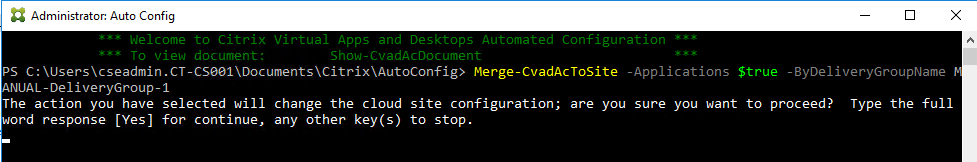
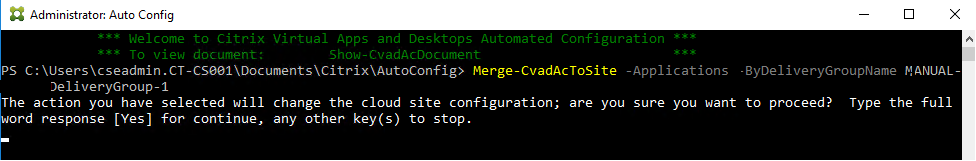
image changes and text included
image changes to remove $true value, and new text included

diff --git a/en-us/tech-zone/learn/poc-guides/citrix-automated-configuration.md b/en-us/tech-zone/learn/poc-guides/citrix-automated-configuration.md
@@ -15,7 +15,7 @@ Administrators can easily test and explore the **Citrix Virtual Apps and Desktop
 
 ### What is the Automated Configuration tool for Citrix Virtual Apps and Desktops?
 
-This tool is designed to help automate the migration of **CVAD** configuration (policies, applications, catalogs, and others) from one or more On-Premises site(s) to the **Citrix Virtual Apps and Desktop service** (CVADS) hosted on Citrix Cloud. It can also be used to migrate information between **different Cloud regions** or **tenants**.
+This tool is designed to help automate the migration of **CVAD** configuration (policies, applications, catalogs, admin roles, scopes and others) from one or more On-Premises site(s) to the **Citrix Virtual Apps and Desktop service** (CVADS) hosted on Citrix Cloud. It can also be used to migrate information between **different Cloud regions** or **tenants**.
 
 The migration can be performed in stages by running the tool multiple times, allowing administrators to easily achieve the desired configuration state.
 
@@ -30,6 +30,21 @@ Citrix wants to help ease this process by providing a tool that addresses use ca
 Citrix has leveraged industry standard configuration as code to provide a mechanism to help automate migration processes. This tool discovers and exports one or more on-premises sites as **a collection of configuration files**, which administrators can optionally edit, and then import these files' configuration into CVADS.
 
 This code is not limited to migrations, it is the future for creating configuration for Citrix sites, and as such, applicable for **many different use cases**. Disaster recovery, Development/Testing/Staging to Production site synchronization, Geographic (GEO) moves, and several other scenarios are supported. For administrators using public cloud providers, this can help create a combination of objects automatically (parallel to Microsoft Azure ARM templates and AWS CloudFormation).
+
+The tool also allows administrators to merge multiple on-premises sites into a single site, while avoiding name collisions. Administrators can control whether the On-Premises or Cloud controls resources, and also place files in a secure network file share that requires authentication.
+
+### Latest additions and enhancements
+
+Version 2 includes the following enhancements:
+
+*  Site Merging: Merge multiple On-Premises sites into a single site while avoiding name collisions.
+*  Site Activation: Control whether the On-Premises or Cloud controls resources.
+*  New Migration inclusions: Admin Roles and Scopes can now be migrated.
+*  New Filters: Filter by Machine Name in Machine Catalogs and Delivery Groups.
+*  Security: New SecurityFileFolder parameter pointing to the CvadAcSecurity.yml file allows placing the file in a secure network file share which requires authentication.
+*  New support cmdlet: New-CvadAcZipInfoForSupport allows zipping all log files for transfer to Citrix for support.
+*  Support for supressing console logging: Quiet parameter can be included now to suppress console logging.
+*  Component selection parameters improvements: best-practice Switch Parameter method eliminates the need to add a $true after the component name.
 
 ## Pre-requisites
 
@@ -75,7 +90,7 @@ These steps must be run in your DDC or the domain-joined machine where you want 
 Using an ```export``` PowerShell command, you can export your existing On-Premises configuration and obtain the necessary *.yml* files. These files are used to import your desired configuration into **Citrix Cloud**.
 
 1.  After running the **MSI** installer on the previous step, you get an **Auto Config** shortcut automatically created on the Desktop. Right-click this shortcut and click **Run as Administrator.**
-2.  Run the ```Export-CvadAcToFile``` command. This command exports policies, manually provisioned catalogs, and delivery groups. It also exports applications, application folders, icons, zone mappings, tags, and other items. **Note:** For **MCS** and **PVS** machine catalogs and delivery groups, refer to the steps on [Requisites for Importing Site Configuration using different Provisioning Methods section](#requisites-for-importing-site-configuration-using-different-provisioning-methods) in this guide.
+2.  Run the ```Export-CvadAcToFile``` command. This command exports policies, manually provisioned catalogs, and delivery groups. It also exports applications, application folders, icons, zone mappings, tags, admin roles and scopes, and other items. **Note:** For **MCS** and **PVS** machine catalogs and delivery groups, refer to the steps on [Requisites for Importing Site Configuration using different Provisioning Methods section](#requisites-for-importing-site-configuration-using-different-provisioning-methods) in this guide.
 [![Exporting Config](/en-us/tech-zone/learn/media/poc-guides_citrix-automated-configuration_export-config-002-1.png)](/en-us/tech-zone/learn/media/poc-guides_citrix-automated-configuration_export-config-002-1.png)
 
 3.  Once the tool finishes running, the **Overall status** shows as **True** and the export process is completed (the output lines shown match the following illustration). **Note:** If there are any errors, diagnostic files are created in the action-specific subfolders ```(Export, Import, Merge, Restore, Sync, Backup, Compare)```, which can be found under ```%HOMEPATH%\Documents\Citrix\AutoConfig```. Refer to the [Troubleshooting Tips section](#troubleshooting-tips) if you encounter any errors.
@@ -185,7 +200,7 @@ Follow these steps to prepare your environment, before proceeding to import the 
 2.  Click the **Groups** node to confirm the groups the app in question belongs to:
 [![Provisioning Method MCS](/en-us/tech-zone/learn/media/poc-guides_citrix-automated-configuration_other-prov-mcs-process-002.png)](/en-us/tech-zone/learn/media/poc-guides_citrix-automated-configuration_other-prov-mcs-process-002.png)
 
-3.  Back on the **PowerShell console**, run the **Merge** command and use the **byDeliveryGroupName** flag, which filters the **Applications** by **Delivery Group** name. Complete Syntax example: ```Merge-CvadAcToSite –Applications $true –ByDeliveryGroupName <DG_name>```
+3.  Back on the **PowerShell console**, run the **Merge** command and use the **byDeliveryGroupName** flag, which filters the **Applications** by **Delivery Group** name. Complete Syntax example: ```Merge-CvadAcToSite –Applications –ByDeliveryGroupName <DG_name>```
 [![Provisioning Method MCS](/en-us/tech-zone/learn/media/poc-guides_citrix-automated-configuration_other-prov-mcs-process-003.png)](/en-us/tech-zone/learn/media/poc-guides_citrix-automated-configuration_other-prov-mcs-process-003.png)
 
 4.  Press **Return (Enter)** on your keyboard to run the command and type ```yes``` to continue.
@@ -212,7 +227,7 @@ Follow these steps to prepare your environment, before proceeding to import the 
 
 Once you’ve performed the previous actions, if you need to import policies associated with your **MCS Machine Catalogs** and your **Delivery groups**, follow these instructions:
 
-1.  Run the ```Merge-CvadAcToSite -GroupPolicies $true``` command in the **PowerShell console** and type ```yes``` to continue, as shown in the following screenshot, and then press **Return (Enter)** on your keyboard:
+1.  Run the ```Merge-CvadAcToSite -GroupPolicies``` command in the **PowerShell console** and type ```yes``` to continue, as shown in the following screenshot, and then press **Return (Enter)** on your keyboard:
 [![Policies for MCS](/en-us/tech-zone/learn/media/poc-guides_citrix-automated-configuration_other-prov-mcs-policies-001.png)](/en-us/tech-zone/learn/media/poc-guides_citrix-automated-configuration_other-prov-mcs-policies-001.png)
 
 2.  Successful execution shows a similar output (```Added``` values). The following screenshot also shows the result of a line for which there were no changes ```(No Change)```:
@@ -325,6 +340,8 @@ If everything looks as expected, your CVADS migration is complete.
 *  The **master history log** is located in ```%HOMEPATH%\Documents\Citrix\AutoConfig```, in the file named ```History.Log```.*  All operation log files are placed in a **backup folder**.
 *  All log file names begin with ```CitrixLog```, then show the ```auto-config``` operation and the **date** and **timestamp** of the cmdlet execution.
 *  Logs **do not** auto-delete.
+*  Console logging can be suppressed by using the -quiet parameter
+*  New support cmdlet to zip all log files for transfer to Citrix for support. To do this, backup the cloud’s current state by running the Backup-CvadAcToFile command, collect all log and yml files into a single zip (no customer security information is included) by running New-CvadAcZipInfoForSupport . Forward the zip file at the following location %HOMEPATH%\Documents\Citrix\AutoConfig\CvadAcSupport_yyyy_mm_dd_hh_mm_ss.zipNew-CvadAcZipInfoForSupport
 
 **For more information:**
 
